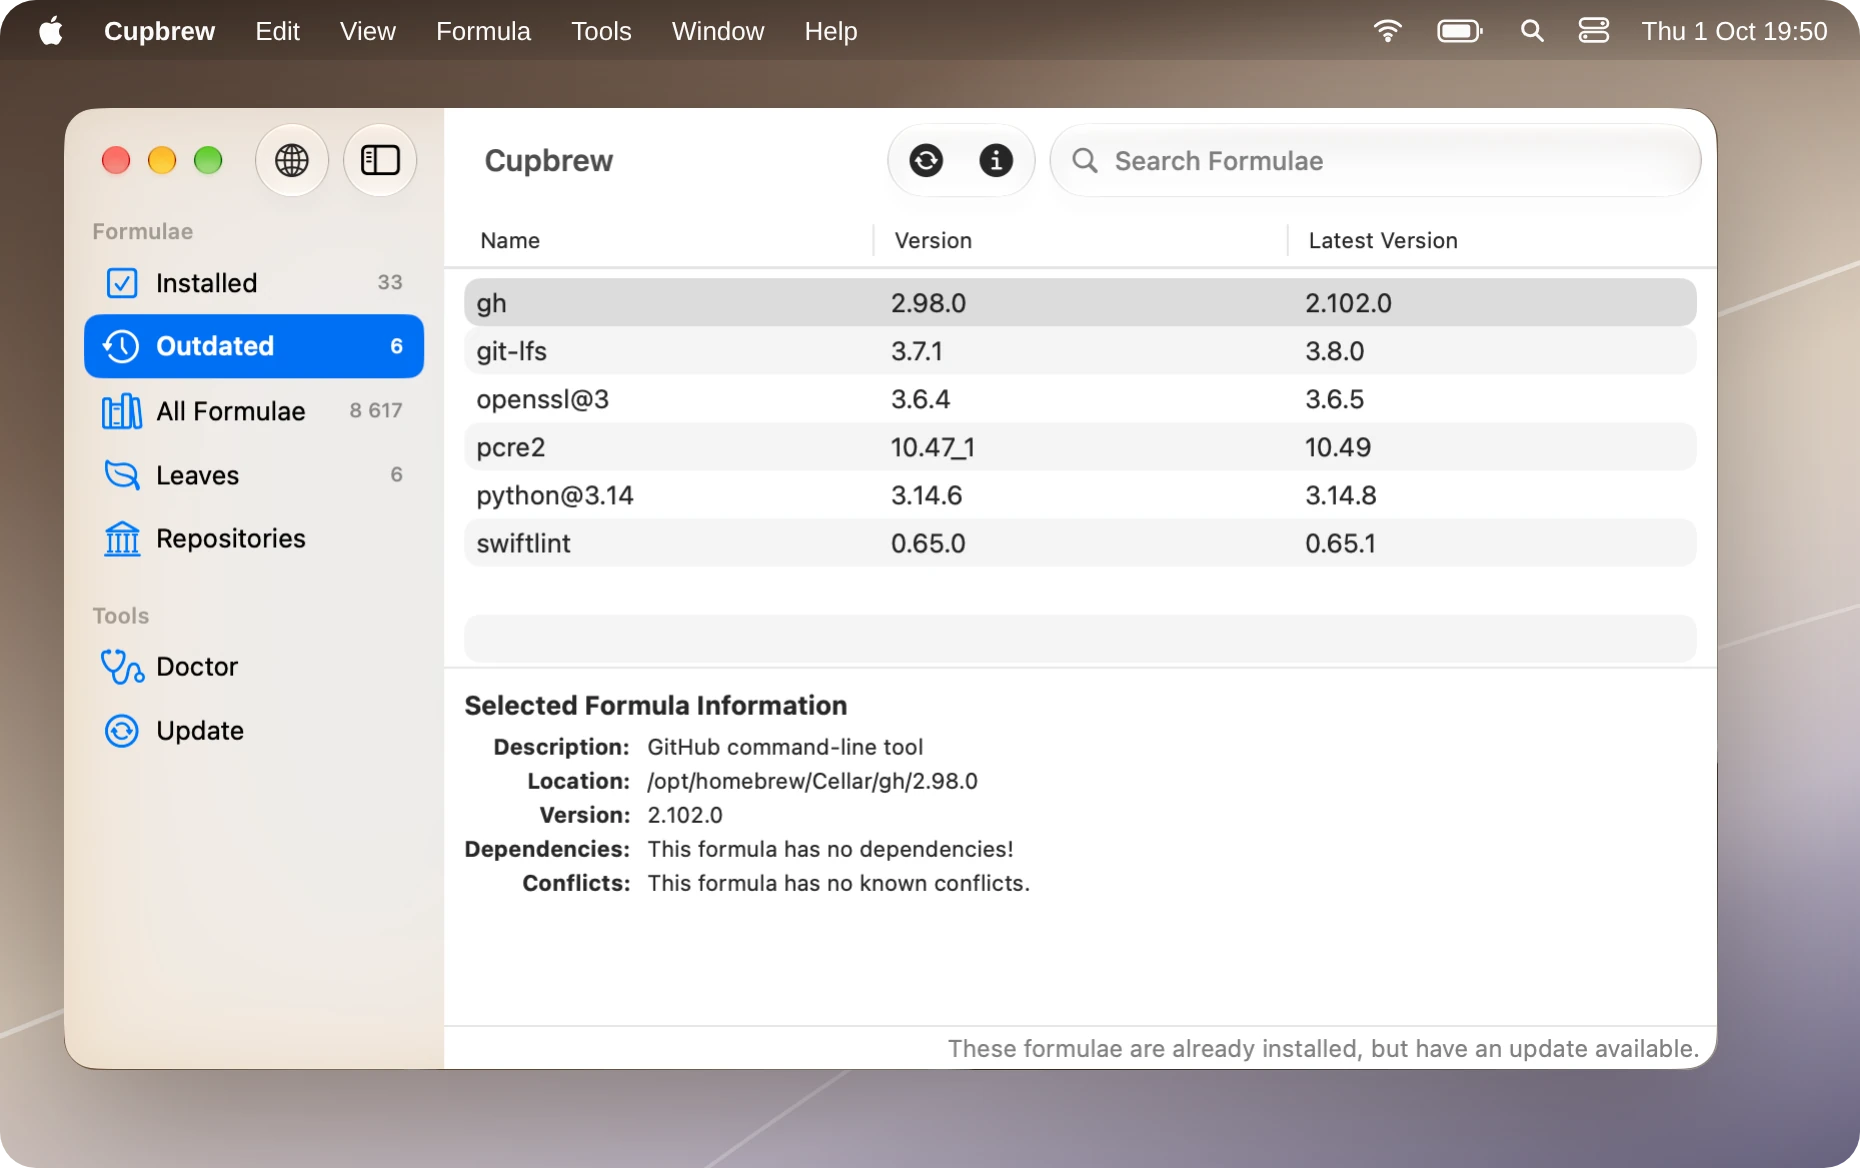
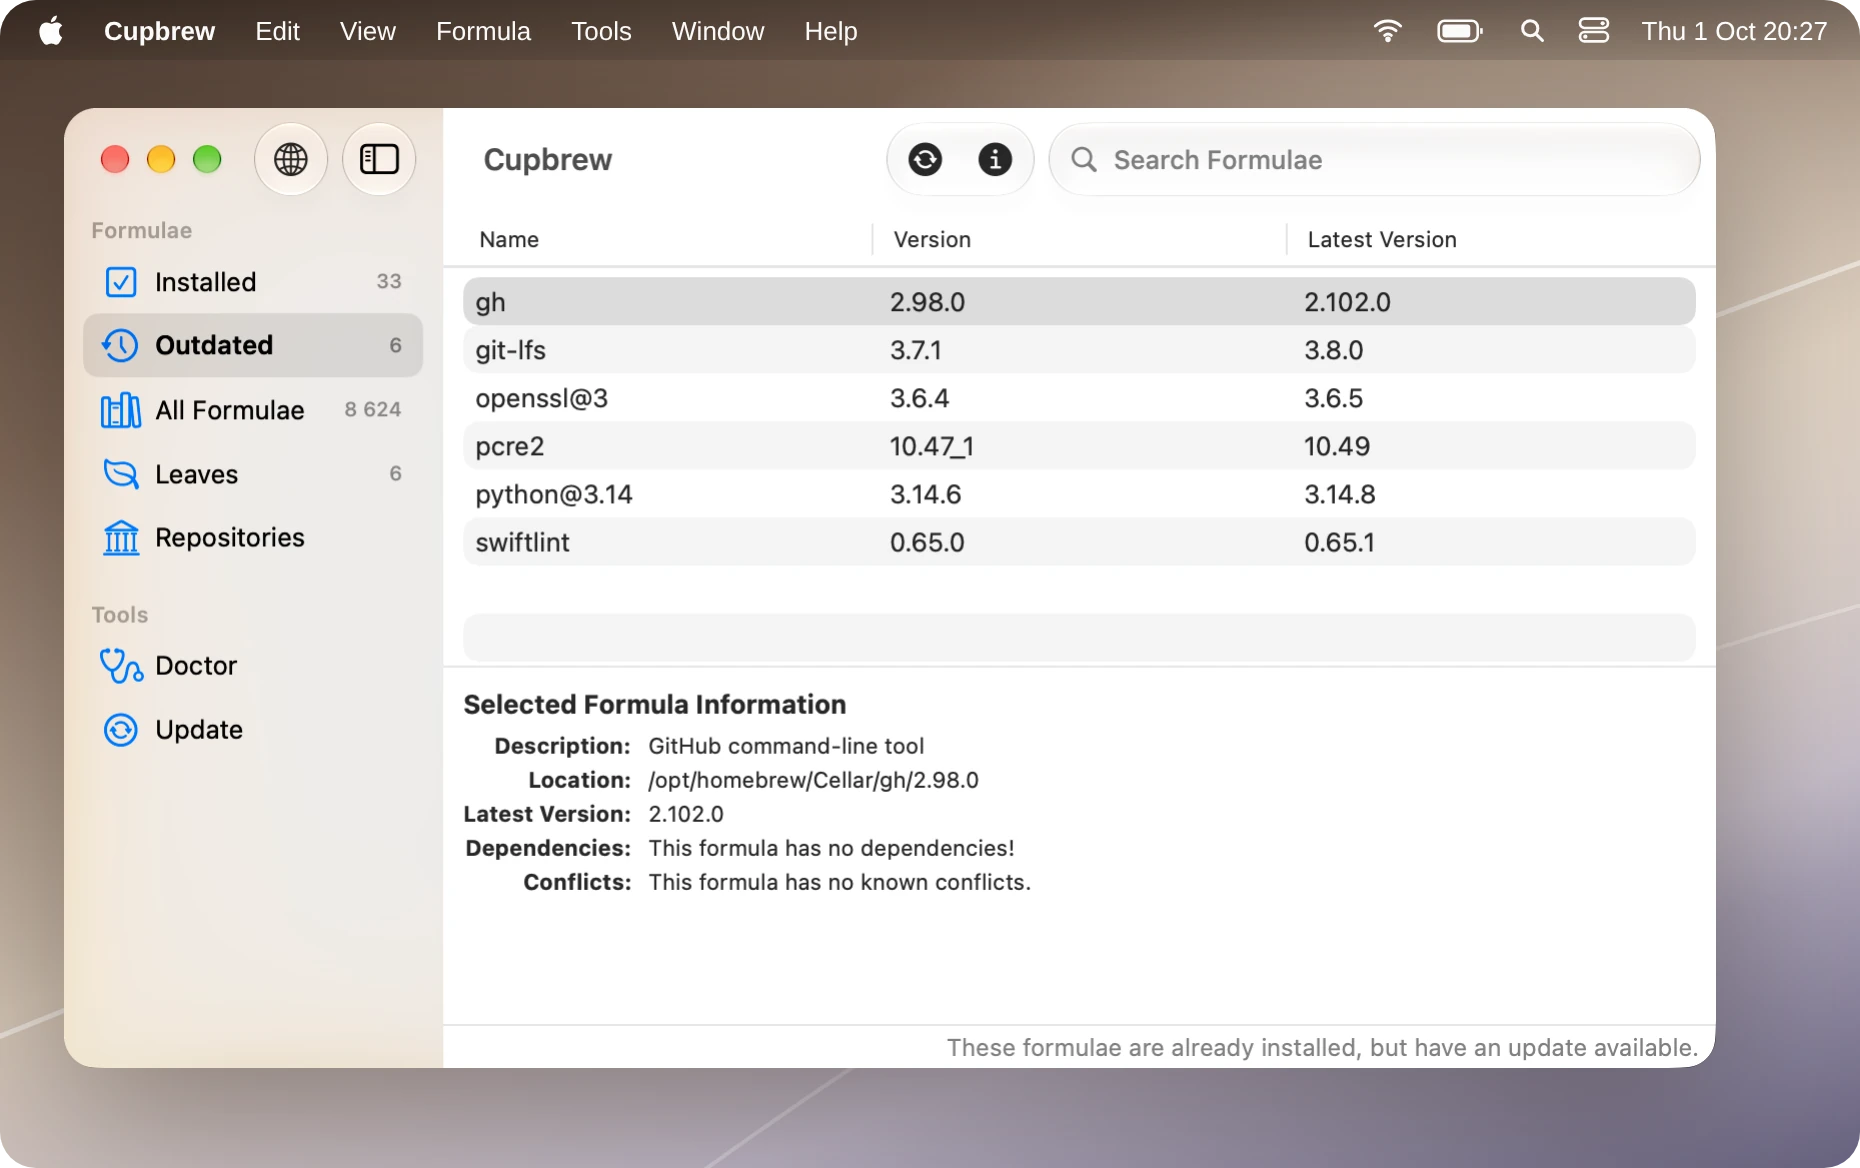
Label the selected formula's version as the latest one
The panel shows the newest version Homebrew offers, as Cakebrew's did,
but called it just "Version" beside a table where that word means the
installed one, so an outdated formula seemed to be up to date.

diff --git a/Cupbrew/App/MainView/SelectedFormulaView.swift b/Cupbrew/App/MainView/SelectedFormulaView.swift
@@ -12,7 +12,9 @@ struct SelectedFormulaView: View {
             Grid(alignment: .leadingFirstTextBaseline, horizontalSpacing: 8, verticalSpacing: 3) {
                 row("Description:", description)
                 row("Location:", location)
-                row("Version:", browser.info?.versions.stable)
+                // `row` takes a LocalizedStringResource; the rule only sees the space.
+                // swiftlint:disable:next non_localized_string
+                row("Latest Version:", browser.info?.versions.stable)
                 row("Dependencies:", dependencies)
                 row("Conflicts:", conflicts)
             }
